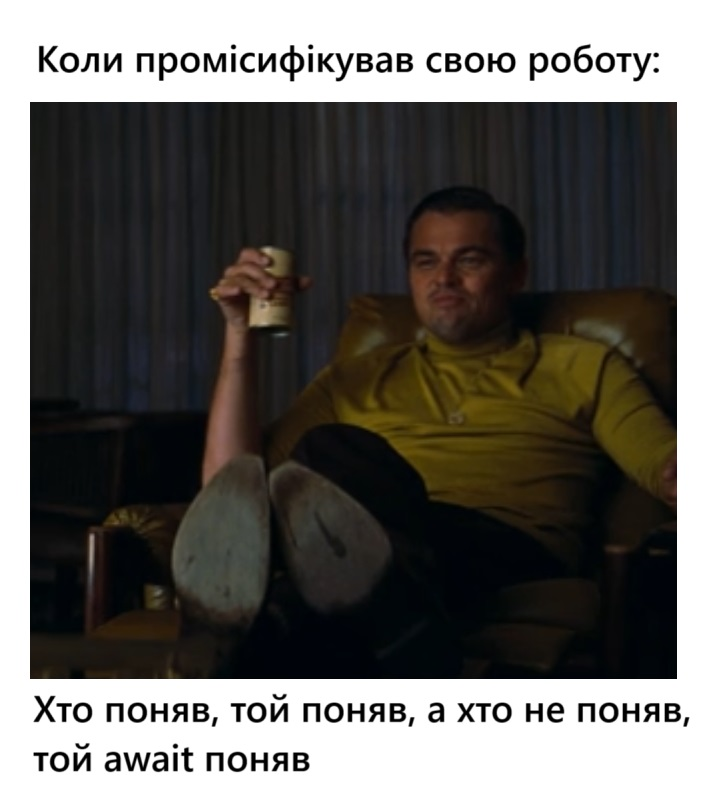
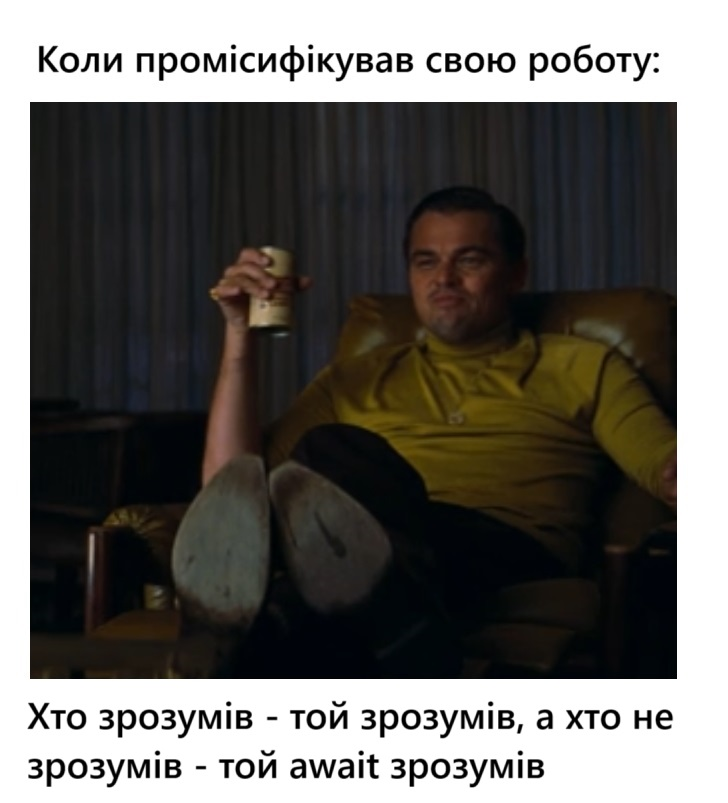
upd

Changed region(s): [[0.0302, 0.8406, 0.9368, 0.9963]]

diff --git a/src/index.html b/src/index.html
@@ -9,18 +9,26 @@
   </head>
   <body>
     <div class="container">
-      <a href="./1-timer.html">Timer</a>
-      <a href="./2-snackbar.html">Snackbar</a>
       <main>
         <h1 class="index-href">Привіт! Ось і 10 домашка готова!</h1>
         <div class="wrapper">
-          <p class="index-description">
-            Думав, що буде важко. Було довго. Принаймні таймер. Ну, не сам
-            таймер... Проміси теж здавались незрозумілими. Але їх філософія дуже
-            близька серцю - якщо не хочеш робити щось сам - доручи іншому! :))
-            Навіть мемчик на цю тему зробив. Не знаю, чи зрозумілий, але хто
-            поняв, той поняв :)))
-          </p>
+          <div class="desc-wrapper">
+            <p class="index-description">
+              Думав, що буде важко. Було довго. Принаймні таймер. Ну, не сам
+              таймер... Проміси теж здавались незрозумілими. Але їх філософія
+              дуже близька серцю -
+              <span class="accent">
+                якщо не хочеш робити щось сам - доручи іншому! :))</span
+              >
+              Навіть мемчик на цю тему зробив. Не знаю, чи зрозумілий, але хто
+              зрозумів, той зрозумів :)))
+            </p>
+            <p class="index-description">Ось тут нижче посилання на таски:</p>
+            <div class="link-wrapper">
+              <a class="nav-link" href="./1-timer.html">Timer</a>
+              <a class="nav-link" href="./2-snackbar.html">Snackbar</a>
+            </div>
+          </div>
           <img src="./img/mem.jpg" alt="Мем про промісифікацію" width="300" />
         </div>
       </main>

diff --git a/src/css/styles.css b/src/css/styles.css
@@ -33,3 +33,16 @@ body {
   gap: 30px;
   margin-top: 20px;
 }
+
+.index-description {
+  margin-bottom: 12px;
+}
+
+.index-href {
+  margin: 30px 0;
+}
+
+.link-wrapper {
+  display: flex;
+  gap: 50px;
+}
